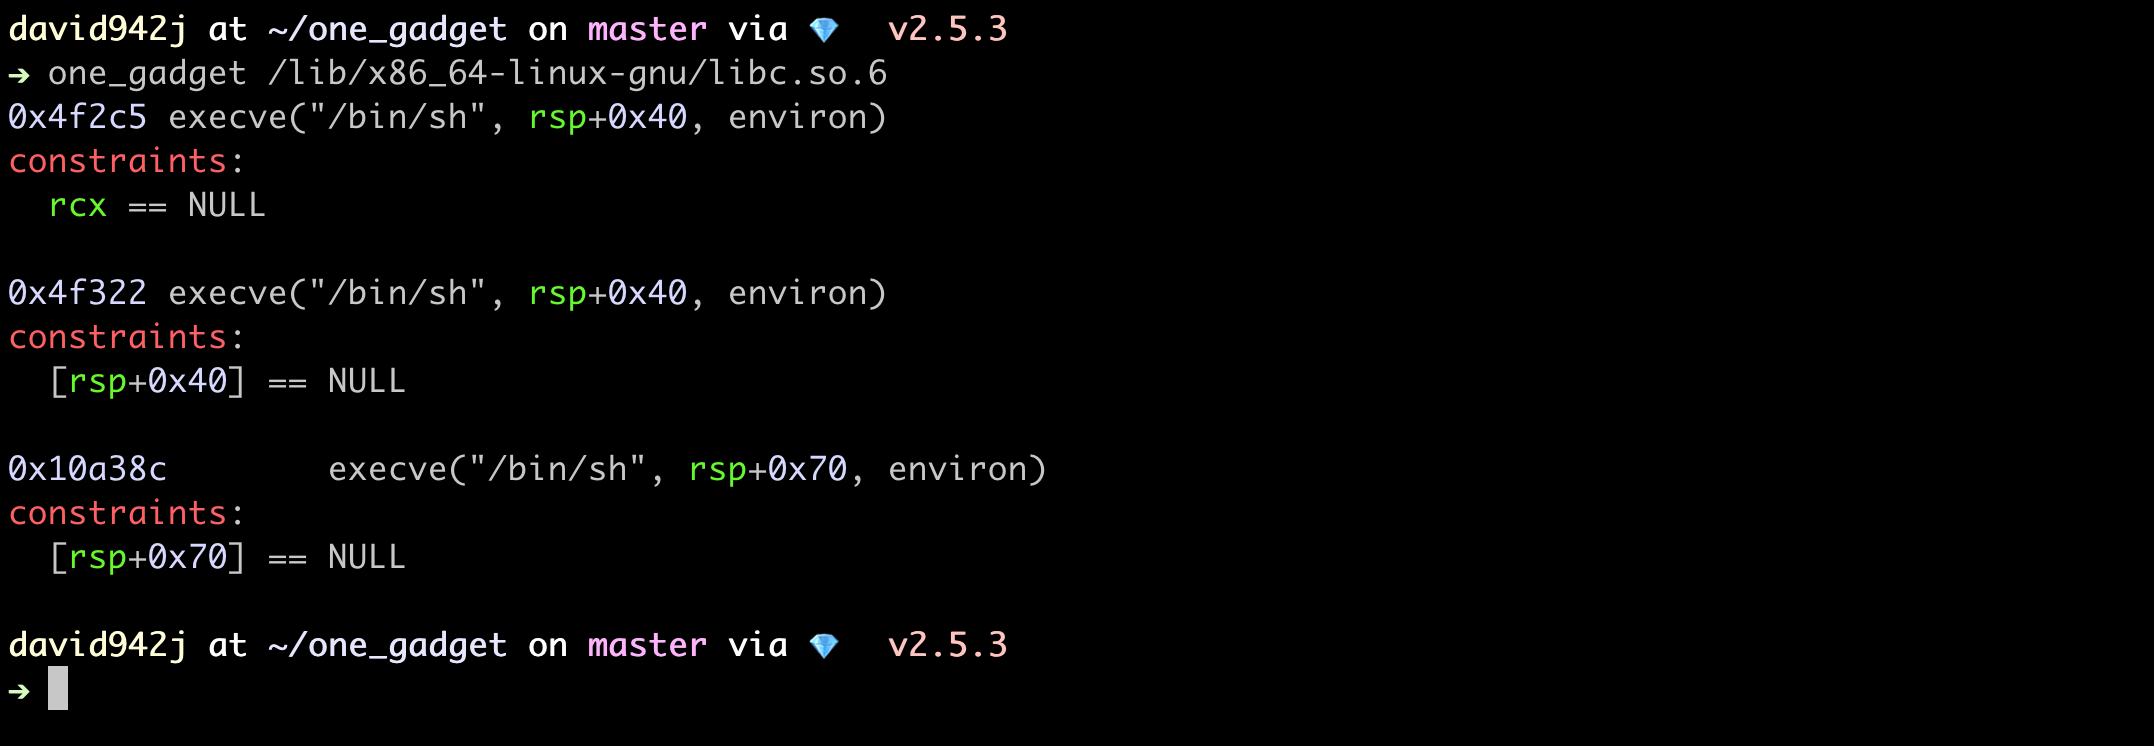
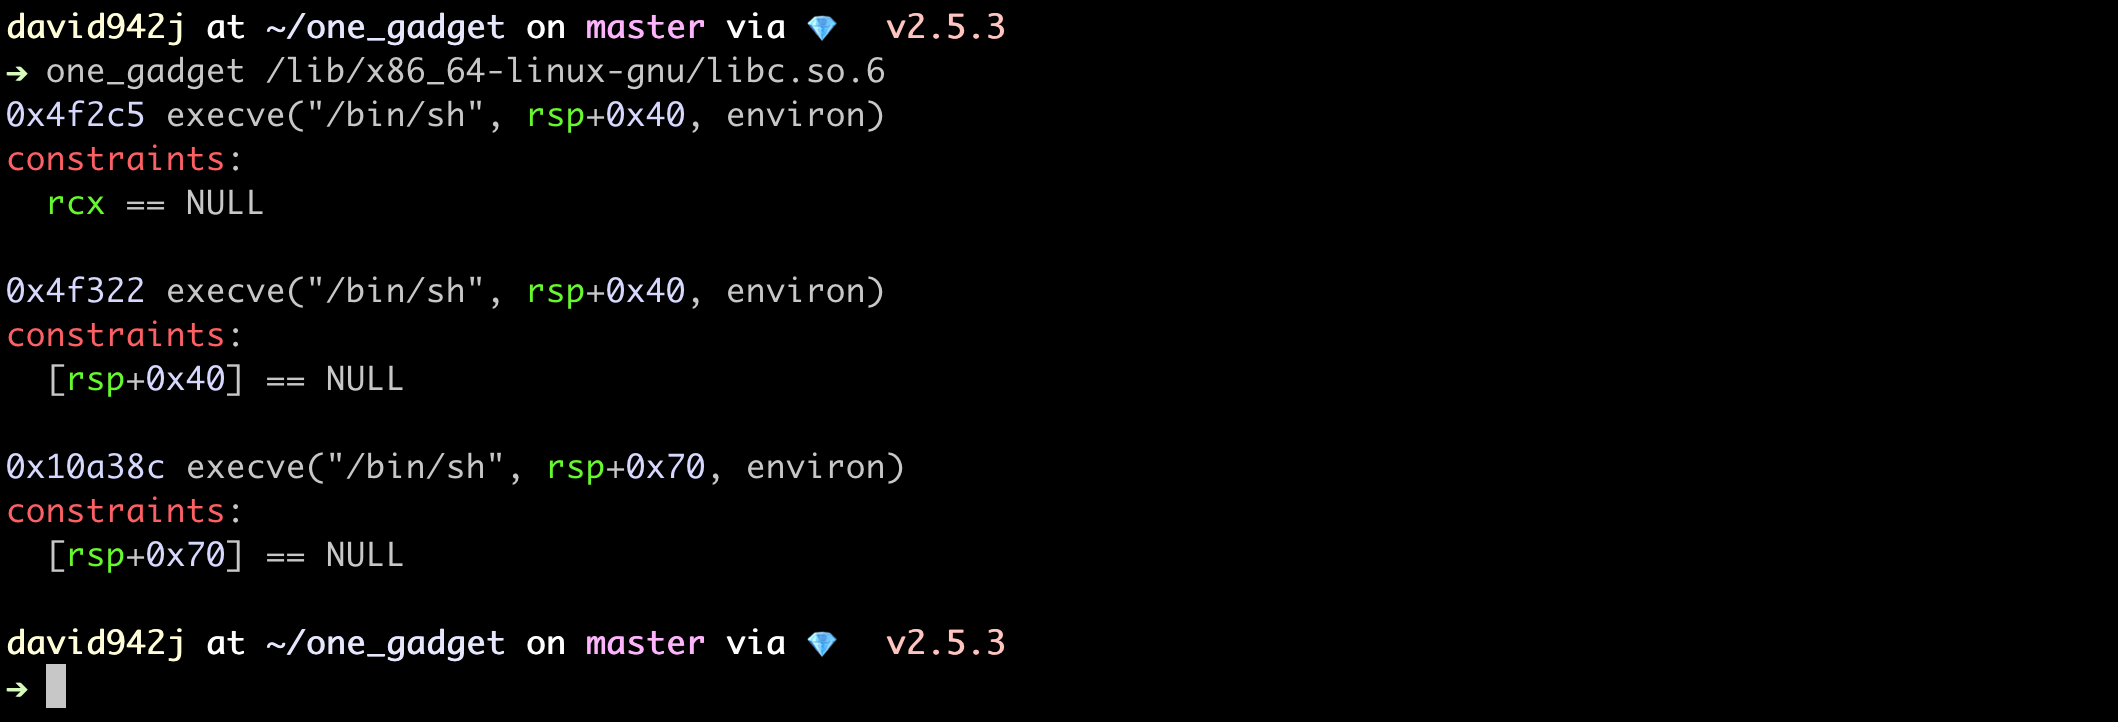
Use spaces instead of tabs

diff --git a/spec/gadget_spec.rb b/spec/gadget_spec.rb
@@ -9,7 +9,7 @@ describe OneGadget::Gadget do
       gadget = OneGadget::Gadget::Gadget.new(0x1234, constraints: ['[rsp+0x30] == NULL', 'rax == 0'],
                                                      effect: 'execve("/bin/sh", rsp+0x30, rax)')
       expect(gadget.inspect).to eq <<-EOS
-0x1234	execve("/bin/sh", rsp+0x30, rax)
+0x1234 execve("/bin/sh", rsp+0x30, rax)
 constraints:
   [rsp+0x30] == NULL
   rax == 0
@@ -20,7 +20,7 @@ constraints:
       gadget = OneGadget::Gadget::Gadget.new(0x1234, constraints: ['writable: x3', 'rax == 0'],
                                                      effect: 'execve("/bin/sh", rsp+0x30, rax)')
       expect(gadget.inspect).to eq <<-EOS
-0x1234	execve("/bin/sh", rsp+0x30, rax)
+0x1234 execve("/bin/sh", rsp+0x30, rax)
 constraints:
   address x3 is writable
   rax == 0
@@ -28,7 +28,7 @@ constraints:
 
       gadget.constraints << 'writable: rbx+0x20'
       expect(gadget.inspect).to eq <<-EOS
-0x1234	execve("/bin/sh", rsp+0x30, rax)
+0x1234 execve("/bin/sh", rsp+0x30, rax)
 constraints:
   addresses x3, rbx+0x20 are writable
   rax == 0

diff --git a/lib/one_gadget/gadget.rb b/lib/one_gadget/gadget.rb
@@ -29,7 +29,7 @@ module OneGadget
       # Show gadget in a pretty way.
       def inspect
         str = OneGadget::Helper.hex(offset)
-        str += effect ? "\t#{effect}\n" : "\n"
+        str += effect ? " #{effect}\n" : "\n"
         unless constraints.empty?
           str += "#{OneGadget::Helper.colorize('constraints')}:\n  "
           str += merge_constraints.join("\n  ")

diff --git a/README.md b/README.md
@@ -59,15 +59,15 @@ $ one_gadget
 
 ```bash
 $ one_gadget /lib/x86_64-linux-gnu/libc.so.6
-# 0x4f2c5	execve("/bin/sh", rsp+0x40, environ)
+# 0x4f2c5 execve("/bin/sh", rsp+0x40, environ)
 # constraints:
 #   rcx == NULL
 #
-# 0x4f322	execve("/bin/sh", rsp+0x40, environ)
+# 0x4f322 execve("/bin/sh", rsp+0x40, environ)
 # constraints:
 #   [rsp+0x40] == NULL
 #
-# 0x10a38c	execve("/bin/sh", rsp+0x70, environ)
+# 0x10a38c execve("/bin/sh", rsp+0x70, environ)
 # constraints:
 #   [rsp+0x70] == NULL
 
@@ -77,19 +77,19 @@ $ one_gadget /lib/x86_64-linux-gnu/libc.so.6
 #### Given BuildID
 ```bash
 $ one_gadget -b aad7dbe330f23ea00ca63daf793b766b51aceb5d
-# 0x45526	execve("/bin/sh", rsp+0x30, environ)
+# 0x45526 execve("/bin/sh", rsp+0x30, environ)
 # constraints:
 #   rax == NULL
 #
-# 0x4557a	execve("/bin/sh", rsp+0x30, environ)
+# 0x4557a execve("/bin/sh", rsp+0x30, environ)
 # constraints:
 #   [rsp+0x30] == NULL
 #
-# 0xf1651	execve("/bin/sh", rsp+0x40, environ)
+# 0xf1651 execve("/bin/sh", rsp+0x40, environ)
 # constraints:
 #   [rsp+0x40] == NULL
 #
-# 0xf24cb	execve("/bin/sh", rsp+0x60, environ)
+# 0xf24cb execve("/bin/sh", rsp+0x60, environ)
 # constraints:
 #   [rsp+0x60] == NULL
 
@@ -105,39 +105,39 @@ Use option `--level 1` to show all gadgets found instead of only those with high
 
 ```bash
 $ one_gadget /lib/x86_64-linux-gnu/libc.so.6 --level 1
-# 0x4f2c5	execve("/bin/sh", rsp+0x40, environ)
+# 0x4f2c5 execve("/bin/sh", rsp+0x40, environ)
 # constraints:
 #   rcx == NULL
 #
-# 0x4f322	execve("/bin/sh", rsp+0x40, environ)
+# 0x4f322 execve("/bin/sh", rsp+0x40, environ)
 # constraints:
 #   [rsp+0x40] == NULL
 #
-# 0xe569f	execve("/bin/sh", r14, r12)
+# 0xe569f execve("/bin/sh", r14, r12)
 # constraints:
 #   [r14] == NULL || r14 == NULL
 #   [r12] == NULL || r12 == NULL
 #
-# 0xe5858	execve("/bin/sh", [rbp-0x88], [rbp-0x70])
+# 0xe5858 execve("/bin/sh", [rbp-0x88], [rbp-0x70])
 # constraints:
 #   [[rbp-0x88]] == NULL || [rbp-0x88] == NULL
 #   [[rbp-0x70]] == NULL || [rbp-0x70] == NULL
 #
-# 0xe585f	execve("/bin/sh", r10, [rbp-0x70])
+# 0xe585f execve("/bin/sh", r10, [rbp-0x70])
 # constraints:
 #   [r10] == NULL || r10 == NULL
 #   [[rbp-0x70]] == NULL || [rbp-0x70] == NULL
 #
-# 0xe5863	execve("/bin/sh", r10, rdx)
+# 0xe5863 execve("/bin/sh", r10, rdx)
 # constraints:
 #   [r10] == NULL || r10 == NULL
 #   [rdx] == NULL || rdx == NULL
 #
-# 0x10a38c	execve("/bin/sh", rsp+0x70, environ)
+# 0x10a38c execve("/bin/sh", rsp+0x70, environ)
 # constraints:
 #   [rsp+0x70] == NULL
 #
-# 0x10a398	execve("/bin/sh", rsi, [rax])
+# 0x10a398 execve("/bin/sh", rsi, [rax])
 # constraints:
 #   [rsi] == NULL || rsi == NULL
 #   [[rax]] == NULL || [rax] == NULL
@@ -149,42 +149,42 @@ $ one_gadget /lib/x86_64-linux-gnu/libc.so.6 --level 1
 ##### i386
 ```bash
 $ one_gadget /lib32/libc.so.6
-# 0x3cbea	execve("/bin/sh", esp+0x34, environ)
+# 0x3cbea execve("/bin/sh", esp+0x34, environ)
 # constraints:
 #   esi is the GOT address of libc
 #   [esp+0x34] == NULL
 #
-# 0x3cbec	execve("/bin/sh", esp+0x38, environ)
+# 0x3cbec execve("/bin/sh", esp+0x38, environ)
 # constraints:
 #   esi is the GOT address of libc
 #   [esp+0x38] == NULL
 #
-# 0x3cbf0	execve("/bin/sh", esp+0x3c, environ)
+# 0x3cbf0 execve("/bin/sh", esp+0x3c, environ)
 # constraints:
 #   esi is the GOT address of libc
 #   [esp+0x3c] == NULL
 #
-# 0x3cbf7	execve("/bin/sh", esp+0x40, environ)
+# 0x3cbf7 execve("/bin/sh", esp+0x40, environ)
 # constraints:
 #   esi is the GOT address of libc
 #   [esp+0x40] == NULL
 #
-# 0x6729f	execl("/bin/sh", eax)
+# 0x6729f execl("/bin/sh", eax)
 # constraints:
 #   esi is the GOT address of libc
 #   eax == NULL
 #
-# 0x672a0	execl("/bin/sh", [esp])
+# 0x672a0 execl("/bin/sh", [esp])
 # constraints:
 #   esi is the GOT address of libc
 #   [esp] == NULL
 #
-# 0x13573e	execl("/bin/sh", eax)
+# 0x13573e execl("/bin/sh", eax)
 # constraints:
 #   ebx is the GOT address of libc
 #   eax == NULL
 #
-# 0x13573f	execl("/bin/sh", [esp])
+# 0x13573f execl("/bin/sh", [esp])
 # constraints:
 #   ebx is the GOT address of libc
 #   [esp] == NULL
@@ -195,22 +195,22 @@ $ one_gadget /lib32/libc.so.6
 ##### AArch64
 ```bash
 $ one_gadget spec/data/aarch64-libc-2.27.so
-# 0x3f160	execve("/bin/sh", sp+0x70, environ)
+# 0x3f160 execve("/bin/sh", sp+0x70, environ)
 # constraints:
 #   address x20+0x338 is writable
 #   x3 == NULL
 #
-# 0x3f184	execve("/bin/sh", sp+0x70, environ)
+# 0x3f184 execve("/bin/sh", sp+0x70, environ)
 # constraints:
 #   addresses x19+0x4, x20+0x338 are writable
 #   [sp+0x70] == NULL
 #
-# 0x3f1a8	execve("/bin/sh", x21, environ)
+# 0x3f1a8 execve("/bin/sh", x21, environ)
 # constraints:
 #   addresses x19+0x4, x20+0x338 are writable
 #   [x21] == NULL || x21 == NULL
 #
-# 0x63e90	execl("/bin/sh", x1)
+# 0x63e90 execl("/bin/sh", x1)
 # constraints:
 #   x1 == NULL
 
